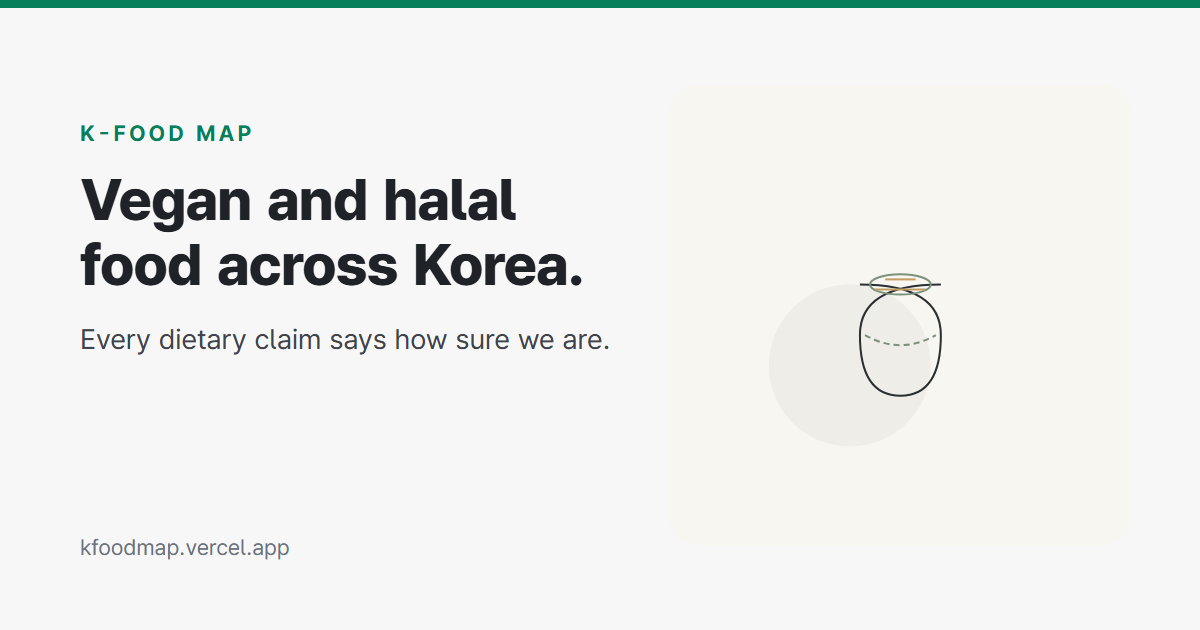
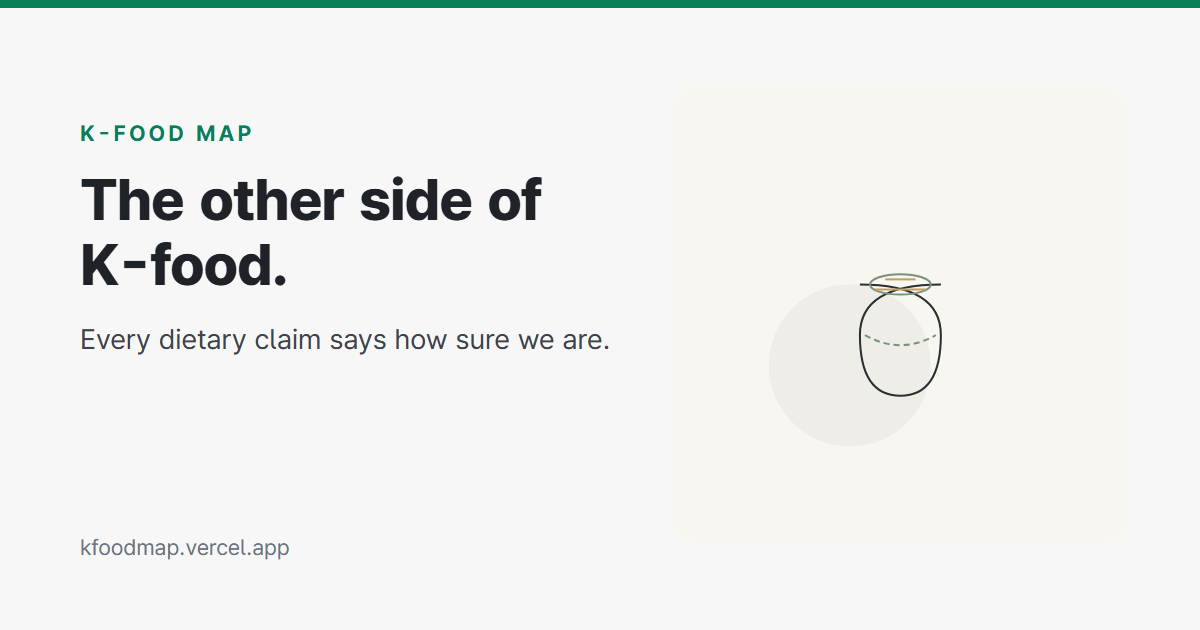
Brand line: the other side of K-food; Confirmed no longer cites visits
Owner's direction (2026-10-05): the map is a food map showing another
side of K-food, not a vegan/halal directory; what the places are is said
in the line under it. The Confirmed legend named visits, of which there
are none on record. Korean label for Reported: 제보됨.

Changed region(s): [[0.0617, 0.2714, 0.4933, 0.4524]]

diff --git a/src/i18n/locales/ko.js b/src/i18n/locales/ko.js
@@ -1,6 +1,6 @@
 // Korean strings. Same key shape as en.js (the source of truth); see
 // scripts/tests/locales.test.mjs. The four claim words are fixed across the
-// app: 확인됨 / 출처 있음 / 추정 / 알 수 없음.
+// app: 확인됨 / 제보됨 / 추정 / 알 수 없음.
 export default {
   tabBar: {
     map: '지도',
@@ -9,11 +9,11 @@ export default {
     profile: '프로필',
   },
   prologue: {
-    title: '전국의 비건·할랄 식당 지도',
-    subtitle: '한 곳씩 조사한 {{activeCount}}곳. 식이 정보마다 얼마나 확실한지 함께 알려 드려요.',
+    title: 'K-푸드의 또 다른 매력, 미식 지도',
+    subtitle: '비건부터 할랄 프렌들리까지, 한 곳씩 조사한 {{activeCount}}곳. 식이 정보마다 얼마나 확실한지 함께 알려 드려요.',
     legendTitle: '표시 읽는 법',
     legendConfirmedChip: '완전 비건',
-    legendConfirmed: '1차 출처와 대조해 확인했어요. 식당 공식 사이트나 메뉴, 공식 기록, 직접 방문이 여기에 들어가요.',
+    legendConfirmed: '1차 출처와 대조해 확인했어요. 식당 공식 사이트나 메뉴, 공식 기록이 여기에 들어가요.',
     legendReportedChip: '할랄 프렌들리',
     legendReported: '가이드, 식당 목록 사이트, 지도 등록 정보 같은 출처에 그렇게 나와 있어요. 1차 출처와 대조하지는 못했어요.',
     legendReadingChip: '비건 메뉴 있음',
@@ -34,7 +34,7 @@ export default {
     communityCheckedDetail: '여행자가 제보했고 저희가 확인했어요.',
     confirmed: '확인됨',
     confirmedDetail: '1차 출처(식당 공식 사이트나 메뉴, 공식 기록)와 대조해 확인했어요.',
-    reported: '출처 있음',
+    reported: '제보됨',
     reportedDetail: '출처는 있지만 아직 확인하지 못했어요. {{evidence}}',
     inferred: '추정',
     inferredDetail: '명시된 사실이 아니라 저희의 추정이에요. {{evidence}}',
@@ -126,8 +126,8 @@ export default {
     clearAll: '검색·필터 지우기',
     missingPlace: '이 장소는 지도에서 빠졌거나 링크가 잘못됐어요. 문을 닫았거나 검증을 통과하지 못했을 수 있어요. 아래에서 다른 곳을 찾아보세요.',
     bothDietsNote: '비건 표시(완전 비건 또는 비건 메뉴 있음)와 할랄 프렌들리 표시가 둘 다 있는 곳만 보여요. ‘비건이면서 할랄’이라는 뜻은 아니에요. 칩 하나를 끄면 나머지 조건에 맞는 곳을 모두 볼 수 있어요.',
-    veganOptionsNote: '일반 메뉴와 함께 비건 메뉴가 있는 곳도 포함돼요. 그런 곳에서는 액젓, 멸치 육수, 달걀이 들어가는지 물어보세요. ‘완전 비건’을 켜면 전 메뉴가 비건이라고 기록된 곳만 보여요. 그중 대부분은 ‘출처 있음’이고, 저희가 확인한 것은 아니에요.',
-    fullyVeganNote: '전 메뉴가 비건이라고 기록된 곳이에요. 얼마나 확실한지는 표시마다 달라요. 대부분은 ‘출처 있음’이에요. 출처에 그렇게 나와 있을 뿐, 저희가 확인한 것은 아니에요.',
+    veganOptionsNote: '일반 메뉴와 함께 비건 메뉴가 있는 곳도 포함돼요. 그런 곳에서는 액젓, 멸치 육수, 달걀이 들어가는지 물어보세요. ‘완전 비건’을 켜면 전 메뉴가 비건이라고 기록된 곳만 보여요. 그중 대부분은 ‘제보됨’이고, 저희가 확인한 것은 아니에요.',
+    fullyVeganNote: '전 메뉴가 비건이라고 기록된 곳이에요. 얼마나 확실한지는 표시마다 달라요. 대부분은 ‘제보됨’이에요. 출처에 그렇게 나와 있을 뿐, 저희가 확인한 것은 아니에요.',
     openNowNote_one: '한국 시간 기준 영업 중인 곳이에요. 조건에 맞지만 영업시간 기록이 없는 {{count}}곳은 보이지 않아요.',
     openNowNote_other: '한국 시간 기준 영업 중인 곳이에요. 조건에 맞지만 영업시간 기록이 없는 {{count}}곳은 보이지 않아요.',
     openNowNoteNone: '한국 시간 기준 영업 중인 곳이에요. 영업시간은 바뀔 수 있으니 멀리서 가신다면 미리 전화해 보세요.',
@@ -334,7 +334,7 @@ export default {
     diningTips: '식사 팁',
     aboutThisInformation: '이 정보를 확인한 방법',
     provenanceOfficialSentence: '<0>확인됨</0>은 1차 출처(식당 공식 사이트나 메뉴, 공식 기록, 위치가 서로 일치하는 지도 서비스)와 대조해 확인했다는 뜻이에요.',
-    provenanceReportedSentence: '<0> 출처 있음</0>은 출처가 그렇게 밝혔다는 뜻이에요.',
+    provenanceReportedSentence: '<0> 제보됨</0>은 출처가 그렇게 밝혔다는 뜻이에요.',
     provenanceInferredSentence: '<0>추정</0>은 맥락으로 미루어 봤다는 뜻이고, <1>알 수 없음</1>은 알아내지 못했다는 뜻이에요. 영업시간, 가격, 식이 정보는 바뀌어요. 출발점으로만 참고해 주세요.',
     location: '위치',
     dietary: '식이 정보',

diff --git a/index.html b/index.html
@@ -13,10 +13,10 @@
     <meta name="format-detection" content="telephone=no" />
     <meta name="apple-mobile-web-app-title" content="K-Food Map" />
     <meta name="mobile-web-app-capable" content="yes" />
-    <meta name="description" content="Vegan and halal places across Korea for visitors, each dietary claim marked with how sure we are." />
+    <meta name="description" content="A food map of Korea for visitors: places with vegan or halal-friendly food, each dietary claim marked with how sure we are." />
     <meta property="og:type" content="website" />
-    <meta property="og:title" content="K-Food Map · Vegan and halal food across Korea" />
-    <meta property="og:description" content="Vegan and halal places across Korea for visitors, each dietary claim marked with how sure we are." />
+    <meta property="og:title" content="K-Food Map · The other side of K-food" />
+    <meta property="og:description" content="A food map of Korea for visitors: places with vegan or halal-friendly food, each dietary claim marked with how sure we are." />
     <meta property="og:image" content="https://kfoodmap.vercel.app/og/fallback.png" />
     <meta property="og:url" content="https://kfoodmap.vercel.app/" />
     <meta property="og:site_name" content="K-Food Map" />
@@ -27,12 +27,12 @@
     <meta name="twitter:card" content="summary_large_image" />
     <link rel="canonical" href="https://kfoodmap.vercel.app/" />
     <meta name="theme-color" content="#FFFFFF" />
-    <title>K-Food Map · Vegan and halal food across Korea</title>
+    <title>K-Food Map · The other side of K-food</title>
   </head>
   <body>
     <!-- Shown while the app's JavaScript loads (about 460 KB compressed, so
          seconds on a slow connection); React replaces it on first render. -->
-    <div id="root"><div style="min-height:100vh;min-height:100dvh;display:flex;flex-direction:column;align-items:center;justify-content:center;gap:10px;padding:24px;background:#F7F7F8;color:#1F2328;font-family:-apple-system,BlinkMacSystemFont,'Segoe UI',Roboto,'Apple SD Gothic Neo','Malgun Gothic',sans-serif;text-align:center"><svg width="56" height="56" aria-hidden="true" xmlns="http://www.w3.org/2000/svg" viewBox="0 0 512 512"><rect width="512" height="512" rx="112" fill="#087F5B"/><g transform="translate(256 256) scale(1.0) translate(-256 -256)"><path d="M17 42.5C17 42.5 31.5 26.4 31.5 15.6C31.5 7.6 25 1.5 17 1.5C9 1.5 2.5 7.6 2.5 15.6C2.5 26.4 17 42.5 17 42.5Z" transform="translate(133.6 97.6) scale(7.2)" fill="#FFFFFF"/><path d="M20 14.5A8.5 8.5 0 1 1 9.5 4a7 7 0 1 0 10.5 10.5Z" transform="translate(188.8 141.4) scale(5.6)" fill="#087F5B"/><path d="M20 4c0 8.5-5.5 15-15 15C5 10.5 11.5 4 20 4Z" transform="translate(252.8 165.4) scale(2.0)" fill="#087F5B"/></g></svg><p style="margin:6px 0 0;font-size:22px;font-weight:800">K-Food Map</p><p style="margin:0;font-size:15px;color:#3F444A">Vegan and halal food across Korea</p><p role="status" style="margin:10px 0 0;font-size:13px;color:#616875">Loading the map…</p></div></div>
+    <div id="root"><div style="min-height:100vh;min-height:100dvh;display:flex;flex-direction:column;align-items:center;justify-content:center;gap:10px;padding:24px;background:#F7F7F8;color:#1F2328;font-family:-apple-system,BlinkMacSystemFont,'Segoe UI',Roboto,'Apple SD Gothic Neo','Malgun Gothic',sans-serif;text-align:center"><svg width="56" height="56" aria-hidden="true" xmlns="http://www.w3.org/2000/svg" viewBox="0 0 512 512"><rect width="512" height="512" rx="112" fill="#087F5B"/><g transform="translate(256 256) scale(1.0) translate(-256 -256)"><path d="M17 42.5C17 42.5 31.5 26.4 31.5 15.6C31.5 7.6 25 1.5 17 1.5C9 1.5 2.5 7.6 2.5 15.6C2.5 26.4 17 42.5 17 42.5Z" transform="translate(133.6 97.6) scale(7.2)" fill="#FFFFFF"/><path d="M20 14.5A8.5 8.5 0 1 1 9.5 4a7 7 0 1 0 10.5 10.5Z" transform="translate(188.8 141.4) scale(5.6)" fill="#087F5B"/><path d="M20 4c0 8.5-5.5 15-15 15C5 10.5 11.5 4 20 4Z" transform="translate(252.8 165.4) scale(2.0)" fill="#087F5B"/></g></svg><p style="margin:6px 0 0;font-size:22px;font-weight:800">K-Food Map</p><p style="margin:0;font-size:15px;color:#3F444A">The other side of K-food</p><p role="status" style="margin:10px 0 0;font-size:13px;color:#616875">Loading the map…</p></div></div>
     <noscript><style>html,body{overflow:auto!important;height:auto!important}#root>div{min-height:0!important}#root [role=status]{display:none}</style><p style="padding:24px;font-family:sans-serif">K-Food Map needs JavaScript to show the map. Without it you can still read the lists of places by area: <a href="/find/vegan">vegan food in Korea</a>, <a href="/find/halal">halal food in Korea</a>.</p></noscript>
     <!-- The loading line is put in the reader's language (the stored choice,
          else the browser's — the rule of src/i18n/index.js detectLanguage). -->

diff --git a/src/i18n/locales/ja.js b/src/i18n/locales/ja.js
@@ -11,11 +11,11 @@ export default {
     profile: 'プロフィール',
   },
   prologue: {
-    title: '韓国各地のヴィーガン・ハラール料理。',
-    subtitle: '{{activeCount}} 軒を一軒ずつ調べました。食に関する表示には、どの程度確かな情報かを必ず添えています。',
+    title: 'K-フードの、もうひとつの魅力。',
+    subtitle: 'ヴィーガンやハラールフレンドリーのお店 {{activeCount}} 軒を一軒ずつ調べたグルメマップ。食に関する表示には、どの程度確かな情報かを必ず添えています。',
     legendTitle: '表示の読み方',
     legendConfirmedChip: '完全ヴィーガン',
-    legendConfirmed: '一次情報と照合済みです。お店の公式サイトやメニュー、公的な記録、または実際の訪問で確かめています。',
+    legendConfirmed: '一次情報と照合済みです。お店の公式サイトやメニュー、または公的な記録で確かめています。',
     legendReportedChip: 'ハラールフレンドリー',
     legendReported: 'ガイドや店舗一覧、地図の掲載情報などにそう記載されていますが、一次情報との照合はしていません。',
     legendReadingChip: 'ヴィーガン対応あり',

diff --git a/src/i18n/locales/id.js b/src/i18n/locales/id.js
@@ -8,11 +8,11 @@ export default {
     profile: 'Profil',
   },
   prologue: {
-    title: 'Makanan vegan dan halal di seluruh Korea.',
-    subtitle: '{{activeCount}} tempat, diteliti satu per satu. Setiap klaim vegan atau halal menyebutkan seberapa yakin kami.',
+    title: 'Sisi lain dari K-food.',
+    subtitle: 'Peta kuliner {{activeCount}} tempat dengan makanan vegan atau ramah halal, diteliti satu per satu. Setiap klaim vegan atau halal menyebutkan seberapa yakin kami.',
     legendTitle: 'Cara membaca klaim',
     legendConfirmedChip: 'Vegan sepenuhnya',
-    legendConfirmed: 'Dicek ke sumber utama: situs atau menu restoran itu sendiri, catatan resmi, atau kunjungan langsung.',
+    legendConfirmed: 'Dicek ke sumber utama: situs atau menu restoran itu sendiri, atau catatan resmi.',
     legendReportedChip: 'Ramah halal',
     legendReported: 'Ada sumber yang menyatakannya — panduan, direktori, atau entri di layanan peta — dan kami belum mengeceknya ke sumber utama.',
     legendReadingChip: 'Ada pilihan vegan',

diff --git a/src/i18n/locales/zh-Hans.js b/src/i18n/locales/zh-Hans.js
@@ -7,11 +7,11 @@ export default {
     profile: '我的',
   },
   prologue: {
-    title: '韩国各地的纯素与清真美食。',
-    subtitle: '共 {{activeCount}} 家，逐一调查整理。每条饮食信息都标明我们有多大把握。',
+    title: '韩食的另一种魅力。',
+    subtitle: '一张美食地图：{{activeCount}} 家提供纯素或清真友好餐食的店，逐一调查整理。每条饮食信息都标明我们有多大把握。',
     legendTitle: '如何看懂这些标注',
     legendConfirmedChip: '全纯素',
-    legendConfirmed: '已对照第一手来源核实：餐厅官网或菜单、官方记录，或实地到访。',
+    legendConfirmed: '已对照第一手来源核实：餐厅官网或菜单，或官方记录。',
     legendReportedChip: '清真友好',
     legendReported: '有来源这样说（指南、名录、地图上的商家信息），但我们尚未对照第一手来源核实。',
     legendReadingChip: '有纯素选项',

diff --git a/src/i18n/locales/zh-Hant.js b/src/i18n/locales/zh-Hant.js
@@ -7,11 +7,11 @@ export default {
     profile: '我的',
   },
   prologue: {
-    title: '韓國各地的純素與清真美食。',
-    subtitle: '共 {{activeCount}} 家，逐一調查整理。每項飲食資訊都標明我們有多大把握。',
+    title: '韓食的另一種魅力。',
+    subtitle: '一張美食地圖：{{activeCount}} 家提供純素或清真友善餐食的店，逐一調查整理。每項飲食資訊都標明我們有多大把握。',
     legendTitle: '如何看懂這些標示',
     legendConfirmedChip: '全純素',
-    legendConfirmed: '已對照第一手來源查證：餐廳官網或菜單、官方紀錄，或實地造訪。',
+    legendConfirmed: '已對照第一手來源查證：餐廳官網或菜單，或官方紀錄。',
     legendReportedChip: '清真友善',
     legendReported: '有來源這樣說（指南、名錄、地圖上的店家資訊），但我們尚未對照第一手來源查證。',
     legendReadingChip: '有純素選項',

diff --git a/src/i18n/locales/en.js b/src/i18n/locales/en.js
@@ -12,11 +12,11 @@ export default {
     profile: 'Profile',
   },
   prologue: {
-    title: 'Vegan and halal food across Korea.',
-    subtitle: '{{activeCount}} places, researched one at a time. Every dietary claim says how sure we are.',
+    title: 'The other side of K-food.',
+    subtitle: 'A food map of {{activeCount}} places with vegan or halal-friendly food, researched one at a time. Every dietary claim says how sure we are.',
     legendTitle: 'How to read a claim',
     legendConfirmedChip: 'Fully vegan',
-    legendConfirmed: "Checked against a primary source: the restaurant's own site or menu, an official record, or a visit.",
+    legendConfirmed: "Checked against a primary source: the restaurant's own site or menu, or an official record.",
     legendReportedChip: 'Halal-friendly',
     legendReported: 'A source says so — a guide, a directory, a map listing — and we have not checked it against a primary one.',
     legendReadingChip: 'Vegan options',

diff --git a/vite.config.js b/vite.config.js
@@ -182,7 +182,7 @@ export default defineConfig({
       manifest: {
         name: 'K-Food Map',
         short_name: 'K-Food Map',
-        description: 'Vegan and halal places across Korea, each dietary claim marked with how sure we are.',
+        description: 'A food map of Korea: places with vegan or halal-friendly food, each dietary claim marked with how sure we are.',
         theme_color: '#FFFFFF',
         // The loading screen's and the app's own grey: white here flashed
         // white, then grey, as an installed app opened.
